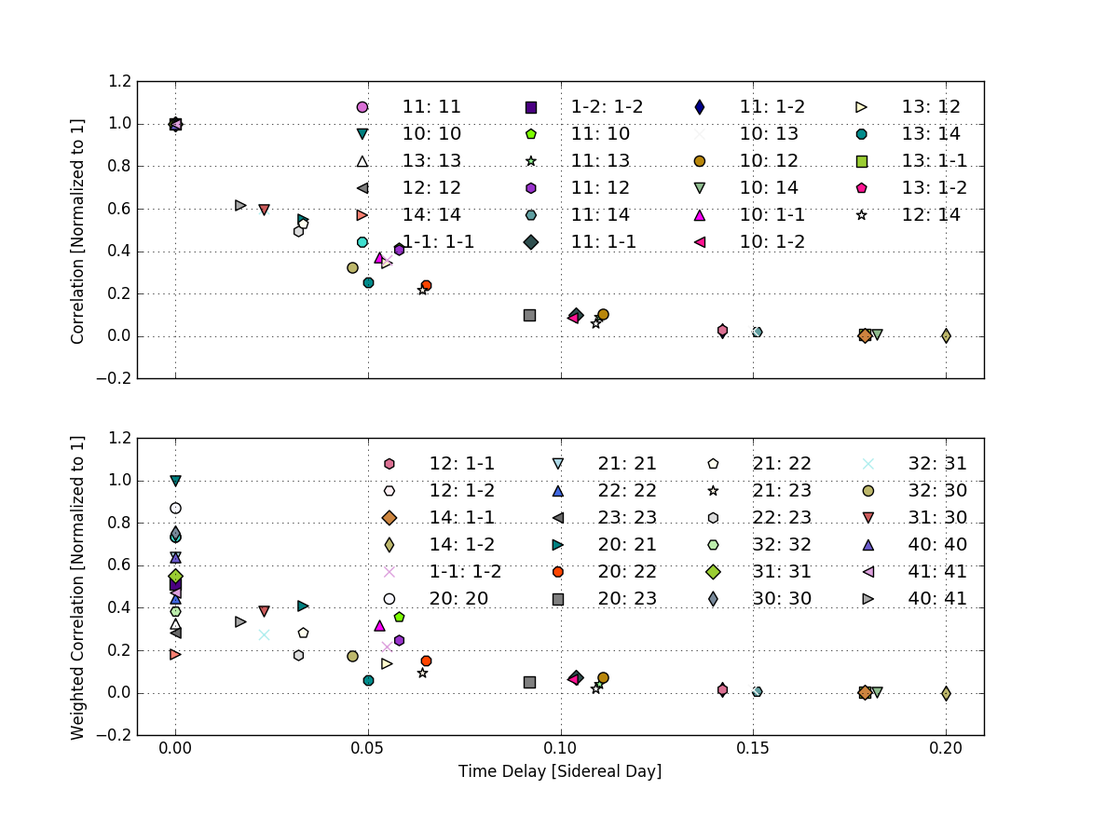
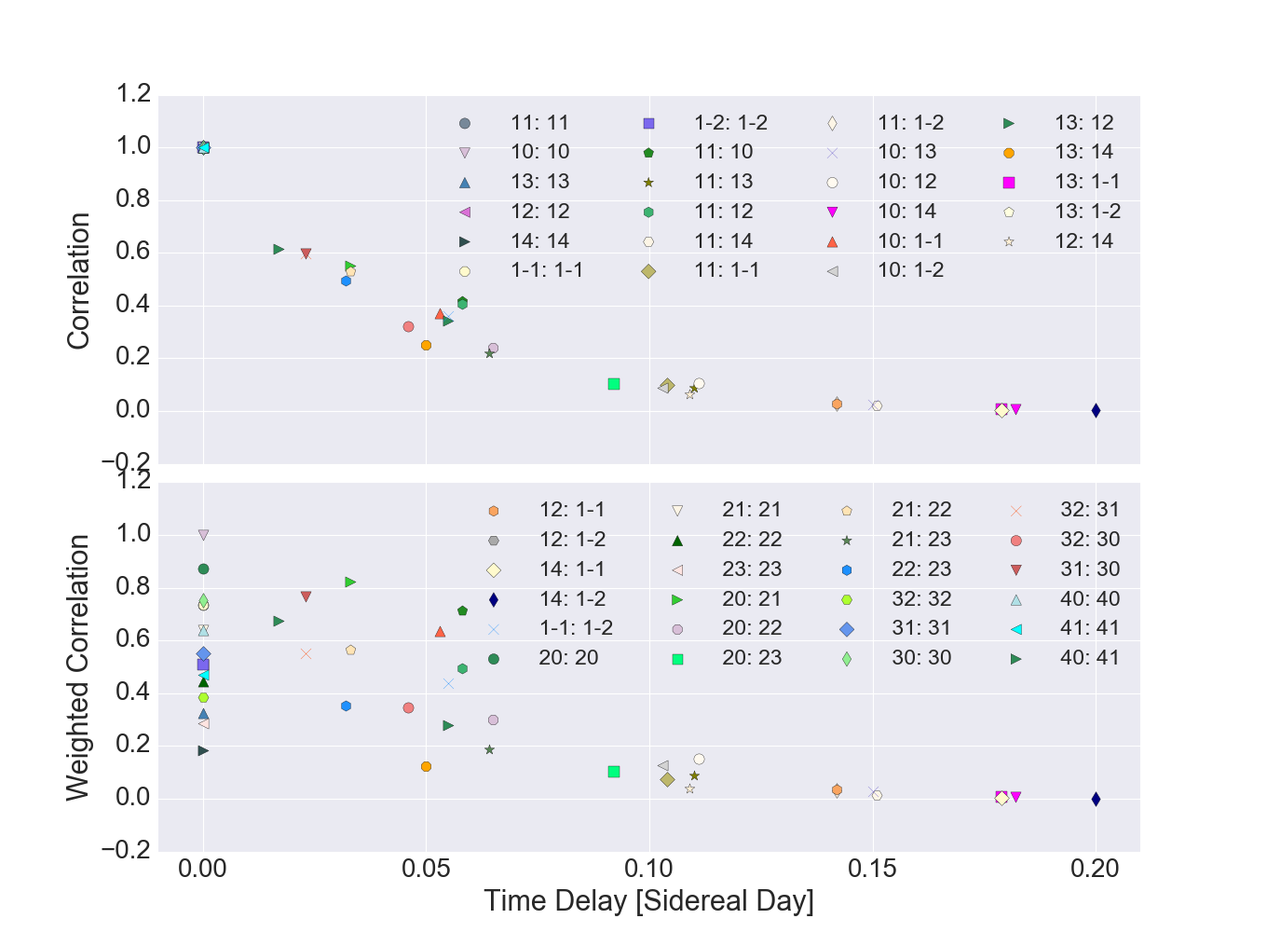
save

diff --git a/Rotation paper/draft_working.tex b/Rotation paper/draft_working.tex
@@ -32,7 +32,7 @@ Aaron R. Parsons\altaffilmark{1}\altaffilmark{2}
 \begin{abstract}
 We introduce an accurate method to extract additional sensitivity from data of redundant radio arrays. Our method efficiently finds optimal baselines to cross correlate, including baselines that are slightly different in length and orientation. 
 Using the latest and final 128-element version of Precision Array for Probing the Epoch of Reionization (PAPER-128), as well as the planned 37, 128, 240 and 350 element versions of the Hydrogen Epoch of Reionization Array (HERA) now under development, we illustrate how our method applies to different array configurations and predict the sensitivity improvements of including each baseline pairs. The extremely natural and simple implementation of this method
-would increase the sensitivity of PAPER-128 by up to [~50] percent, and increase the out-rigger imaging sensitivity of HERA-350 by a factor of 2. 
+would increase the sensitivity of PAPER-128 by about to $10\%$, and increase the out-rigger imaging sensitivity of HERA-350 by a factor of 2. 
 \end{abstract}
 
 \section{Introduction}
@@ -42,28 +42,26 @@ stage of the universe's early evolution. Study of this event stands at
 the intersection of cosmology and astrophysics. Understanding this
 event is important not only because it is a scientific goal
 of its own, but also because it can provide crucial information
-to fundamental nature of inflation, neutrino mass and phenomenology
+to fundamental physics of inflation, neutrino mass and phenomenology
 of the first stars and galaxies (e.g. \cite{LiuOpticalDepth}). 
 
 Arguably the most promising observational probe of the epoch of reionization
 comes from measurement of the ``spin-flip'' transition of neutral
 hydrogen of characteristic wavelength 21cm \cite{Furlanetto2006181,PritchardLoeb}.
 While probes such as quasar spectra rely on emission and scattering
-of free electrons, and are thus limited to the lower redshifts after
-the completion of reionization, the 21cm line directly probes the
+of free electrons, and are thus limited to the lower redshifts towards the end of reionization, the 21cm line directly probes the
 abundance and distribution of neutral hydrogen, and thus would potentially
 shed light on all stages of reionization. Radio interferometry efforts
 to measure the 21cm power spectrum has been a top priority in recent years of astronomy.
 Current generation instruments include the Precision Array for Probing
 the Epoch of Reionization (PAPER) \cite{Ali2015,paper32}, Murchison
-Widefield Array (MWA) \cite{MWA}, Low Frequency Array (LOFAR) \cite{LOFAR},
-and next generation instruments such as the Hydrogen Epoch of Reionization
+Widefield Array (MWA) \cite{MWA}, Low Frequency Array (LOFAR) \cite{LOFAR}. Next generation instruments such as the Hydrogen Epoch of Reionization
 Array (HERA) (e.g. \cite{HERA,HERAconfiguration,HERABEAM1,HERADISH2})
 and the Square Kilometer Array Low (SKA low) (e.g. \cite{SKA1}) are
-under construction. 
+in planning and construction. 
 
 One of the main challenges of interferometric observations of cosmic
-21cm line is the foreground contamination. Both sources within our
+21cm line is foreground contamination. Both sources within our
 galaxy, and to a lesser distant sources outside of our galaxy emit
 radio contaminations (via for example synchrotron processes) up to five orders of magnitude stronger than the
 reionization signal. There are two common methods to deal with the
@@ -76,15 +74,15 @@ wedge'' \cite{wedge1,wedge2}. Thus contamination can be avoided
 by restricting our observation to ``outside the wedge'', where the data is currently noise dominated. The main
 challenge of using the avoidance technique is thus the sensitivity, or
 the signal to noise ratio. This is the motivation for the design of
-the maximum redundancy arrays such as PAPER and HERA. While traditional
-imaging arrays focus on Fourier mode uv coverage, the redundant arrays
-focus on redundant measurements of the same Fourier mode
+the maximum redundancy arrays such as PAPER and HERA. Traditional
+imaging arrays are designed to image localized bright sources and thus favor non-redundant patterns for uv coverage. The redundant arrays on the other hand
+focus on high-sensitivity measurements of the same Fourier mode
 with many tightly packed antennas at equal spacing. Since baselines
 of the same length and orientation measure the same Fourier modes
 on the sky, a maximum redundancy array is able to increase the
 signal to noise ratio by averaging over measurements of the same baseline.
 \cite{Ali2015} provides the newest upper limit to the power spectrum
-measurements with the PAPER-64 data. From some models we roughly expect
+measurements with the 64-element version of PAPER(henceforth referred to as PAPER-64). From some models we roughly expect
 that the sensitivity required for detection is a factor of 10 away.
 This paper explores a new technique to add sensitivity to the analysis
 of redundant arrays, by making use of the earth's rotation. This technique
@@ -96,7 +94,7 @@ This effect is used extensively to improve uv coverage in imaging with minimum r
 a maximally redundant array, baselines that are slightly different
 rotate into each other at a time delay. Here we present a method to
 improve the sensitivity of the maximum redundancy arrays by including
-the uv redundancy of different baselines at a time lag. Recently the authors of \cite{wterm} proposed an algorithmic search approach to extract information from all near-equivalent baselines. We here propose a simple and elegant theoretical formalism that in addition allows us to identify good baselines to cross-correlate and predict the weight of sensitivity with speed and accuracy. 
+the uv redundancy of different baselines at a time lag. Recently the authors of \cite{wterm} proposed an algorithmic search approach to extract information from all near-equivalent baselines. We here present a simple and elegant theoretical formalism that in addition allows us to identify good baselines to cross-correlate and predict the weight of sensitivity with speed and accuracy. 
 
 Baselines of the same length and orientation are traditionally called
 ``redundant baselines'', because they measure the same Fourier mode
@@ -114,9 +112,9 @@ redundancy, b) to find the optimal time offset for a given pair of baselines, an
 c) to quantify the sensitivity improvement associated with cross multiplying
 such a pair of near-equivalent baselines. In section
 2 we explain the theoretical basis for this cross multiplication.
-In section 3 we present details of the numerical implementation of
-this technique. In section 4 we discuss the expected sensitivity improvement
-with this method for HERA and PAPER-128 and with section 5 we conclude. 
+In section 3 we present numerical tests of
+this technique as well as the expected sensitivity improvement
+with this method for HERA and PAPER-128 and with section 4 we conclude. 
 
 
 \section{Method}
@@ -155,7 +153,7 @@ the yellow and green arrows are examples of sep1,1 and sep-1,1, respectively.
 Note sep1,0 and sep-1,0 for example are the same baselines and should
 not be counted twice. Antennas in purely north-south baselines
 are close enough to induce cross talks, and hence are not suitable
-for use. The original PAPER-64 analysis used three classes of baselines, here
+for use. The original PAPER-64 analysis (\cite{Ali2015}) used three classes of baselines, here
 equivalent to 
 sep2,0, sep2,1 and sep-2,1 \cite{Ali2015} of PAPER-128. There each of these classes
 of baselines are cross multiplied to itself. We shall see that in addition these
@@ -165,7 +163,7 @@ baseline classes can be cross multiplied with a time offset.
 Given a point source on the sky, each baseline maps the
 source to a point in uv plane. As the earth rotates with respect to
 the source, the point traces out tracks in the uv-plane. 
-The uv tracks of PAPER-128 over 4.8 hours, at 0.15GHz, for a source that passes through zenith, are shown in Fig. \ref{fig:Tracks}. 
+We show in Fig. \ref{fig:Tracks} uv tracks of PAPER-128 over 4.8 hours, at 0.15GHz, for a source that passes through zenith. 
 
 
 \begin{figure}[H]
@@ -179,10 +177,9 @@ As the earth rotates, tracks are traced out counterclockwise. \label{fig:Tracks}
 Roughly speaking, we can identify
 redundancy of near-equivalent baselines as crossings
 of the uv tracks. Although this is a valid quick method to identify some baselines to cross-multiply, we find
-that it is not accurate enough for time offset determination. The reason is, for wide beam antennas such as PAPER, the sources are not point-like. 
-In other words, when tracks of
-one point of the sky are crossing in uv-plane, those corresponding to another is not. To accurately
-constrain redundancy we must take into account of finite beam width. A more rigorous treatment is thus required. 
+that it is not accurate enough for time offset determination. The reason is that UV tracks are traces of a point source, which though adequate for traditional narrow beam imaging, are not applicable for wide-beam receivers like that of PAPER.
+Here the uv-imprint of the sky for a given baseline and frequency is really a cloud that's the track convolved with the appropriate point-spread function. To accurately
+constrain redundancy, a more rigorous treatment is thus required. 
 We show sample beams of HERA and PAPER antennas in Fig.\ref{fig:Beam} for reference. 
 
 \begin{figure}[H]
@@ -204,8 +201,8 @@ the product of visibilities of two different baselines to the power spectrum.
 We take the visibility as commonly defined in the literature (e.g.
 \cite{first-paper}): 
 \begin{equation}
-\begin{aligned}V_{\nu}(b) & =\int d\Omega A_{\nu}(\hat{s})\phi(\nu)I_{\nu}(\hat{s})\exp\left[-2\pi i\frac{\nu}{c}b\cdot\hat{s}\right],\\
- & \approx\frac{2k_{B}}{\lambda^{2}}\int d\Omega A_{\nu}(\hat{s})\phi(\nu)T(\hat{s})\exp\left[-2\pi i\frac{\nu}{c}b\cdot\hat{s}\right],
+\begin{aligned}V_{\nu}(\boldsymbol{b}) & =\int d\Omega A_{\nu}(\hat{\boldsymbol{s}})\phi(\nu)I_{\nu}(\hat{\boldsymbol{s}})\exp\left[-2\pi i\frac{\nu}{c}\boldsymbol{b}\cdot\hat{\boldsymbol{s}}\right],\\
+ & \approx\frac{2k_{B}}{\lambda^{2}}\int d\Omega A_{\nu}(\hat{\boldsymbol{s}})\phi(\nu)T(\hat{\boldsymbol{s}})\exp\left[-2\pi i\frac{\nu}{c}\boldsymbol{b}\cdot\hat{\boldsymbol{s}}\right],
 \end{aligned}
 \label{eq:Vis1}
 \end{equation}
@@ -214,14 +211,14 @@ length, $\hat{\boldsymbol{s}}$ and $\Omega$ are a direction in the
 sky and its corresponding solid angle. $A_{\nu}$ is the (frequency
 dependent) beam, and $I$ is the specific intensity, which has been
 related to $T$, the brightness temperature in the Rayleigh-Jeans
-limit. Note that $A$ here is the baseline beam, i.e. product of two antenna beams, examples of which are shown in Fig.\ref{fig:Beam}. $\phi(\nu)$ is the frequency band profile. For PAPER, for example,
-the bands studied are roughly a top-hat from 144MHz to 154 MHz. 
+limit. Note that $A$ here is the baseline beam, i.e. product of two antenna beams, examples of which are shown in Fig.\ref{fig:Beam}. $\phi(\nu)$ is the frequency bandpass profile. In practice,
+power spectrum measurements are typically taken from a few ten MHz centered around the corresponding redshift of interest (e.g. 150 MHz for z=9.5). 
 
 We define the delay transformed visibility \cite{delay-transform}:
 \small
 \begin{equation}
-\begin{aligned}V(b,\tau) & =\int d\nu V_{\nu}(b)\phi(\nu)\exp\left[-2\pi i\nu\tau\right],\\
- & =\frac{2k_{B}}{\lambda^{2}}\int d\Omega d\nu A(\hat{s},\nu)\phi(\nu)T(\hat{s},\nu)\exp\left[-2\pi i\nu\left(\frac{b\cdot\hat{s}}{c}+\tau\right)\right]
+\begin{aligned}V(\boldsymbol{b},\tau) & =\int d\nu V_{\nu}(\boldsymbol{b})\phi(\nu)\exp\left[-2\pi i\nu\tau\right],\\
+ & =\frac{2k_{B}}{\lambda^{2}}\int d\Omega d\nu A(\hat{\boldsymbol{s}},\nu)\phi(\nu)T(\hat{\boldsymbol{s}},\nu)\exp\left[-2\pi i\nu\left(\frac{\boldsymbol{b}\cdot\hat{\boldsymbol{s}}}{c}+\tau\right)\right]
 \end{aligned}
 .\label{eq:Vb1}
 \end{equation}
@@ -229,8 +226,8 @@ We define the delay transformed visibility \cite{delay-transform}:
 
 
 Eq. \eqref{eq:Vb1} expresses the delay-transformed visibility as
-an integral over observation coordinates $\hat{s}$ and $\nu$. Ultimately,
-we would like to relate the data, collected with coordinates $\hat{s}$
+an integral over observation coordinates $\hat{\boldsymbol{s}}$ and $\nu$. Ultimately,
+we would like to relate the data, collected with coordinates $\hat{\boldsymbol{s}}$
 and $\nu$, to the power spectrum, written with cosmological coordinates
 $\boldsymbol{r}$ and $\boldsymbol{k}$. We start by noticing that
 {[}Gerry: change all r and k into bold{]} 
@@ -255,11 +252,11 @@ Thus $d\nu=-dr/Y$ and $d^{3}r=-X^{2}Yd\Omega d\nu$.
 We can thus rewrite the delayed transformed visibility as 
 \small
 \[
-\begin{aligned}V(b,\tau) & =\frac{1}{X^{2}Y}\int_{H}d^{3}rA(\vec{r})\phi(r)I(\vec{r})\exp\left[-2\pi i\left(\frac{b}{c}\cdot\hat{r}+\tau\right)\nu_{r}\right]\end{aligned}.
+\begin{aligned}V(\boldsymbol{b},\tau) & =\frac{1}{X^{2}Y}\int_{H}d^{3}rA(\boldsymbol{r})\phi(r)I(\boldsymbol{r})\exp\left[-2\pi i\left(\frac{\boldsymbol{b}}{c}\cdot\hat{\boldsymbol{r}}+\tau\right)\nu_{r}\right]\end{aligned}.
 \]
 \normalsize
-Here $(r_{x},r_{y},r_{z})=(X\hat{s}_{x},X\hat{s}_{y},Y\nu)$, and
-$(Xk_{x},Xk_{y},Yk_{z})=\frac{2\pi}{c}(b_{x},b_{y},\eta)$ relate
+Here $(r_{x},r_{y},r_{z})=(X\hat{\boldsymbol{s}}_{x},X\hat{\boldsymbol{s}}_{y},Y\nu)$, and
+$(Xk_{x},Xk_{y},Yk_{z})=\frac{2\pi}{c}(b_{x},b_{y},\tau)$ relate
 the cosmological coordinates $r$ and $k$ to the measured coordinates.
 We have written $\nu_{r}$ to remind us that $\nu$ and $r$ are related
 by Eq. \eqref{eq:nur}. The beam reception pattern $A$ is dimensionless,
@@ -272,21 +269,21 @@ of the beam pattern with the operator $\Gamma$. With implicit bounds
 of integrals from $-\infty$ to $\infty$, we have:
 \begin{widetext}
 \begin{equation}
-\begin{aligned} & \langle V^{*}(b,\tau)V(b',\tau')\rangle\\
- & =\left(\frac{2k_{B}}{X^{2}Y\lambda^{2}}\right)^{2}\int d^{3}rd^{3}r'\left(\langle T^{*}(r)T(r')\rangle\right)A^{*}(r)A(\Gamma r')\Phi_{b,\tau}(r,\Gamma r'),\\
- & =\left(\frac{2k_{B}}{X^{2}Y\lambda^{2}}\right)^{2}\int d^{3}rd^{3}r'\left(\int\frac{d^{3}\kappa}{(2\pi)^{3}}\frac{d^{3}\kappa'}{(2\pi)^{3}}\langle T^{*}(\kappa)T(\kappa')\rangle e^{-i(\kappa r-\kappa'r')}\right)A^{*}(r)A(\Gamma r')\Phi_{b,\tau}(r,\Gamma r'),\\
- & =\left(\frac{2k_{B}}{X^{2}Y\lambda^{2}}\right)^{2}\int d^{3}rd^{3}r'\left(\int\frac{d^{3}\kappa}{(2\pi)^{3}}P(\kappa)e^{-i\kappa(r-r')}\right)A^{*}(r)A(\Gamma r')\Phi_{b,\tau}(r,\Gamma r'),\\
- & =\left(\frac{2k_{B}}{X^{2}Y\lambda^{2}}\right)^{2}\int d^{3}rd^{3}r'\xi(r-r')A^{*}(r)A(\Gamma r')\Phi_{b,\tau}(r,\Gamma r'),\\
- & \approx\left(\frac{2k_{B}}{X^{2}Y\lambda^{2}}\right)^{2}P(k_{b,\tau})\int d^{3}rd^{3}r'\delta_{D}^{(3)}(r-r')A^{*}(r)A(\Gamma r')\Phi_{b,\tau}(r,\Gamma r'),\\
- & =\left(\frac{2k_{B}}{X^{2}Y\lambda^{2}}\right)^{2}P(k_{b,\tau})\int d^{3}r|A^{*}(r)A(\Gamma r)||\phi(\nu_{r})|^{2}\exp\left[-i2\pi\nu_{r}\left(\hat{r}\cdot\frac{b}{c}-\hat{\Gamma r}\cdot\frac{b'}{c}\right)\right],\\
- & =\left(\frac{2k_{B}}{\lambda^{2}}\right)^{2}P(k_{b,\tau})\int\frac{d\Omega d\nu}{X^{2}Y}|A^{*}(\hat{s},\nu)A(\hat{\Gamma s},\nu)||\phi(\nu)|^{2}\exp\left[-i2\pi\nu\left(\hat{s}\cdot\frac{b}{c}-\hat{\Gamma s}\cdot\frac{b'}{c}\right)\right],
+\begin{aligned} & \langle V^{*}(\boldsymbol{b},\tau)V(\boldsymbol{b'},\tau')\rangle\\
+ & =\left(\frac{2k_{B}}{X^{2}Y\lambda^{2}}\right)^{2}\int d^{3}rd^{3}r'\left(\langle T^{*}(\boldsymbol{r})T(\boldsymbol{r'})\rangle\right)A^{*}(\boldsymbol{r})A(\Gamma r')\Phi_{b,\tau}(\boldsymbol{r},\Gamma r'),\\
+ & =\left(\frac{2k_{B}}{X^{2}Y\lambda^{2}}\right)^{2}\int d^{3}rd^{3}r'\left(\int\frac{d^{3}\kappa}{(2\pi)^{3}}\frac{d^{3}\kappa'}{(2\pi)^{3}}\langle T^{*}(\boldsymbol{\kappa})T(\boldsymbol{\kappa'})\rangle e^{-i(\boldsymbol{\kappa}\cdot \boldsymbol{r}-\boldsymbol{\kappa'}\cdot\boldsymbol{r'})}\right)A^{*}(\boldsymbol{r})A(\Gamma r')\Phi_{b,\tau}(\boldsymbol{r},\Gamma r'),\\
+ & =\left(\frac{2k_{B}}{X^{2}Y\lambda^{2}}\right)^{2}\int d^{3}rd^{3}r'\left(\int\frac{d^{3}\kappa}{(2\pi)^{3}}P(\kappa)e^{-i\boldsymbol{\kappa}\cdot(\boldsymbol{r}-\boldsymbol{r'})}\right)A^{*}(\boldsymbol{r})A(\Gamma r')\Phi_{b,\tau}(\boldsymbol{r},\Gamma r'),\\
+ & =\left(\frac{2k_{B}}{X^{2}Y\lambda^{2}}\right)^{2}\int d^{3}rd^{3}r'\xi(\boldsymbol{r}-\boldsymbol{r'})A^{*}(\boldsymbol{r})A(\Gamma r')\Phi_{b,\tau}(\boldsymbol{r},\Gamma r'),\\
+ & \approx\left(\frac{2k_{B}}{X^{2}Y\lambda^{2}}\right)^{2}P(k_{b,\tau})\int d^{3}rd^{3}r'\delta_{D}^{(3)}(\boldsymbol{r}-\boldsymbol{r'})A^{*}(\boldsymbol{r})A(\Gamma r')\Phi_{b,\tau}(\boldsymbol{r},\Gamma r'),\\
+ & =\left(\frac{2k_{B}}{X^{2}Y\lambda^{2}}\right)^{2}P(k_{b,\tau})\int d^{3}r|A^{*}(\boldsymbol{r})A(\Gamma r)||\phi(\nu_{r})|^{2}\exp\left[-i2\pi\nu_{r}\left(\hat{\boldsymbol{r}}\cdot\frac{\boldsymbol{b}}{c}-\hat{\Gamma r}\cdot\frac{\boldsymbol{b'}}{c}\right)\right],\\
+ & =\left(\frac{2k_{B}}{\lambda^{2}}\right)^{2}P(k_{b,\tau})\int\frac{d\Omega d\nu}{X^{2}Y}|A^{*}(\hat{\boldsymbol{s}},\nu)A(\hat{\Gamma s},\nu)||\phi(\nu)|^{2}\exp\left[-i2\pi\nu\left(\hat{\boldsymbol{s}}\cdot\frac{\boldsymbol{b}}{c}-\hat{\Gamma s}\cdot\frac{\boldsymbol{b'}}{c}\right)\right],
 \end{aligned}
 \label{eq:main}
 \end{equation}
 
-where in transition from cosmological coordinates back to observing coordinates we have written $\hat{r}\equiv\hat{s}$, and 
+where in transition from cosmological coordinates back to observing coordinates we have written $\hat{\boldsymbol{r}}\equiv\hat{\boldsymbol{s}}$, and 
 \begin{equation}
-\Phi_{b,\tau}(r,\Gamma r')=|{\phi^{*}}(\ensuremath{\nu_{r}})\phi(\nu_{r'})|\exp\left[-i\frac{2\pi}{c}\left(b\cdot\nu_{r}\hat{r}-b'\cdot\nu_{r'}\Gamma\hat{r'}\right)\right]\exp\left[-i2\pi\tau\left(\nu_{r}-\nu_{r'}\right)\right].
+\Phi_{b,\tau}(\boldsymbol{r},\Gamma r')=|{\phi^{*}}(\ensuremath{\nu_{r}})\phi(\nu_{r'})|\exp\left[-i\frac{2\pi}{c}\left(\boldsymbol{b}\cdot\nu_{r}\hat{\boldsymbol{r}}-\boldsymbol{b'}\cdot\nu_{r'}\Gamma\hat{r'}\right)\right]\exp\left[-i2\pi\tau\left(\nu_{r}-\nu_{r'}\right)\right].
 \end{equation}
 \end{widetext}
 The second to third line of Eq.(\ref{eq:main}) follows from assumption of Gaussian random
@@ -295,37 +292,50 @@ the 3D power spectrum varies negligibly over the region of interest
 so that $\hat{P_{21}}(k+k_{2})\approx\hat{P_{21}}(k)$. Since $\Gamma$
 is a sky rotation, it doesn't affect $\nu$, hence we have taken $\nu_{r}$
 outside the parenthesis. Notice that the phase factor $\exp\left[-i2\pi\tau\left(\nu-\nu'\right)\right]$
-drops out in the end. This is significant because this means that correlation is peaked at the same time-offset for all delay channels. 
+drops out in the end. This means that correlation is peaked at the same time-offset for all delay channels. 
 
-Finally, since the beam pattern and bandwidth are given in $\hat{s}$
+Finally, since the beam pattern and bandwidth are given in $\hat{\boldsymbol{s}}$
 and $\nu$, we convert the integral back to these coordinates to get
 the general relation between the delay-transformed visibilities and
 the power spectrum:
 
 \begin{equation}
-\begin{aligned} & \langle V^{*}(b,\tau)V(b',\tau')\rangle\\
- & =\left(\frac{2k_{B}}{\lambda^{2}}\right)^{2}P(k_{b,\tau})\int\frac{d\Omega d\nu}{X^{2}Y}|A^{*}(\hat{s},\nu)A(\hat{\Gamma s},\nu)||\phi(\nu)|^{2}\\
- & \qquad \qquad \qquad \qquad \exp\left[-i2\pi\nu\left(\hat{s}\cdot\frac{b}{c}-\hat{\Gamma s}\cdot\frac{b'}{c}\right)\right].\end{aligned}
+\begin{aligned} & \langle V^{*}(\boldsymbol{b},\tau)V(\boldsymbol{b'},\tau')\rangle\\
+ & =\left(\frac{2k_{B}}{\lambda^{2}}\right)^{2}P(k_{b,\tau})\int\frac{d\Omega d\nu}{X^{2}Y}|A^{*}(\hat{\boldsymbol{s}},\nu)A(\hat{\Gamma s},\nu)||\phi(\nu)|^{2}\\
+ & \qquad \qquad \qquad \qquad \exp\left[-i2\pi\nu\left(\hat{\boldsymbol{s}}\cdot\frac{\boldsymbol{b}}{c}-\hat{\Gamma s}\cdot\frac{\boldsymbol{b'}}{c}\right)\right].\end{aligned}
 \label{eq:final}
 \end{equation}
+
+In other words the power spectrum estimate from visibilities of a baseline pair is given by 
+\begin{equation}
+ P(k_{b,\tau}) = \left(\frac{\lambda^{2}}{2k_{B}}\right)^{2} \frac{\langle V^{*}(\boldsymbol{b},\tau)V(\boldsymbol{b'},\tau')\rangle}{\Theta}, 
+\end{equation}
+where the weight
+\begin{equation}
+\Theta =\int\frac{d\Omega d\nu}{X^{2}Y}|A^{*}(\hat{\boldsymbol{s}},\nu)A(\hat{\Gamma s},\nu)||\phi(\nu)|^{2} e^{-2\pi i\nu\left(\hat{\boldsymbol{s}}\cdot\frac{\boldsymbol{b}}{c}-\hat{\Gamma s}\cdot\frac{\boldsymbol{b'}}{c}\right)}. 
+\label{eq:opp}
+\end{equation}
+
+
+
 So roughly speaking the cross multiplications of visibilities at a time delay
 in uv-space is proportional to the power spectrum times the Fourier
 transform of the cross multiplied beam pattern. We can then in principle
 combine information from different baseline pairs if we correct for
 the phase and normalization. As a check, when applied to equivalent baselines,
-$b=b'$, $\hat{s}=\hat{\Gamma s}$, and Eq.(\ref{eq:final}) reduces to Eq.(B9) of \cite{paper32}. 
+$\boldsymbol{b}=\boldsymbol{b'}$, $\hat{\boldsymbol{s}}=\hat{\Gamma s}$, and Eq.(\ref{eq:final}) reduces to Eq.(B9) of \cite{paper32}. 
 
 If this result is robust, then we can achieve all our goals stated in the introduction, i.e. to identify 
-candidate baseline pairs, to find the optimal time offset, and to quantify the sensibility, by computing the integral
-in Eq.(\ref{eq:final}) for various time offsets. Thus we shall first test its robustness numerically.
+candidate baseline pairs, to find the optimal time offset, and to quantify the sensibility, by computing the weight $\Theta$ from
+Eq.(\ref{eq:opp}) for various time offsets. Thus we shall first test its robustness numerically.
 
 \subsection{Rephasing \label{sec:rephs}}
-Before we discuss tests, there is one subtlety when applying Eq. \ref{eq:final}. The optimal time offset is given by the $\Gamma$ that maximizes the integral. However, first integrating over the spatial dimension $\Omega$, we see the phase term at peak time-offset is inevitably frequency dependent. This frequency dependence of the phase would lead to destructive interference when we integrate over frequency.
+Before we discuss tests, there is one subtlety when applying Eq. \ref{eq:final}. The optimal time offset is given by the $\Gamma$ that maximizes the absolute value of the weight $\Theta$. However, $\Theta$ is in general complex. First integrating over the spatial dimension $\Omega$, we see the phase term at peak time-offset is inevitably frequency dependent. This frequency dependence of the phase would lead to destructive interference when we integrate over frequency.
 
-The physical origin of this frequency dependent phase is due to the two visibilities having different phase centers. By default the two visibilities are both phased to zenith at the same time. When they are cross-correlated, they must be rephased to the account for the movement of the zenith. Thus in practice we must rephase the visibilities before delay transform. 
+The physical origin of this frequency dependent phase lies the two visibilities having different phase centers. By default the two visibilities are both phased to zenith at the same time. When they are cross-correlated, they must be rephased to the account for the movement of the zenith. Thus in practice we must rephase the visibilities before delay transform. 
 
 
-In Fig.\ref{fig:freqdiff} we compare two channels 0.16 GHz and 0.17 GHz.  Top panels show the equivalent baseline pairs sep1,0 against itself, and bottom panels show sep1,0 against sep1,1. The left two panels have zero rephasing, and the right two are rephased to a time offset of 0.055 sidereal days, the optimal time offset for the given baseline pair. We see that in bottom left panel, although the magnitude, drawn by the wide curves match up, the phases do not. This means the wider the frequency profile, the more destructive the interference, and lower the sensitivity contribution. In the rephased case, the phases of the near-equivalent case match up. We should use the correponding rephasing for each baseline pair maximum sensitivity. 
+In Fig.\ref{fig:freqdiff} we compare two channels 0.16 GHz and 0.17 GHz.  Top panels show the equivalent baseline pairs sep1,0 against itself, and bottom panels show sep1,0 against sep1,1. The left two panels have zero rephasing, and the right two are rephased to a time offset of 0.055 sidereal days, the optimal time offset for the given baseline pair. We see that in bottom left panel, although the magnitude, drawn by the wide curves match up for the two frequencies, the phases do not. This means the wider the frequency profile, the more destructive the interference, and lower the sensitivity contribution. In the rephased case, the phases of the near-equivalent case match up and can be added without compromising sensitivity. We should thus rephase the data separately for each set of baseline pairs. 
 
 \begin{figure}[H]
 \includegraphics[width=1.1\linewidth]{rephs}
@@ -337,7 +347,7 @@ In Fig.\ref{fig:freqdiff} we compare two channels 0.16 GHz and 0.17 GHz.  Top pa
 \section{Analysis}
 \subsection{Numerical Test \label{sec:Techniquet}}
 
-To test the robustness of Eq.(\ref{eq:final}), we need to compare the amplitude and phase of the integral
+To test the robustness of Eq.(\ref{eq:final}), we need to compare the amplitude and phase of the integral weight $\Theta$ 
 for a pair of baselines with products of simulated visibilities of those baselines. For computational simplicity, we shall use a single frequency channel of $150$MHz for the comparison. We may use this simplification without compromising generality because Eq. (\ref{eq:final}) is valid for a range of frequency channels if an only if it's valid for each single channels, provided that different channels are combined with rephasing as desscribed in Sec. \ref{sec:rephs}. 
 
 For the simulation, we take N random realizations of the sky
@@ -360,12 +370,9 @@ A numerical estimate of the error of the peak height with $N=1$ is
 $\lesssim20\%$, and thus with $N=2500,$ we achieve an error of peak
 height $<0.5\%$. 
 
-To test our understanding of the time-offset, and to verify our derivation
-in Eq. \eqref{eq:main}, we must compare the simulated visibility cross multiplication with the integral in
-Eq. \eqref{eq:main}, for a pair of near-equivalent baselines. 
-This comparison is show in Fig. \ref{fig:numerics}. 
+The comparison is show in Fig. \ref{fig:numerics}. 
 Since the sensitivity contribution is inferred from height of the peak of the cross-multiplied visibilities as a function of time. 
-We first compare the simulation to the integral for a pair of equivalent baselines, then normalize the peaks 
+We first compare the simulation to the analytical weight $\Theta$ for a pair of equivalent baselines, then normalize the peaks 
 of the near-equivalent baselines to that of the equivalent ones. 
 In Fig. \ref{fig:numerics}  we show on the top comparison of
 the convolution of an equivalent baseline of PAPER-128, normalized to 1 at the
@@ -376,9 +383,9 @@ i.e. the two plots have thus the same scale on the vertical axis.
 The height of the plot thus quantifies the added sensitivity. We see at a peak of around 0.055 sidereal days, or 1.32 hours, the two baselines are maximally redundant. 
 
 \begin{figure}[H]
-\includegraphics[width=\linewidth]{redun_agree}
+\includegraphics[width=\linewidth]{corr}
 \label{fig:numerics}
-\caption{Numerical comparisons of the visibility correlation peaks to the $\Omega$ factor in Eq.(\ref{eq:final}). We generated 24000 instances of Gaussian random sky on healpix maps, computed visibilities and cross correlated them to find the correlation.  We see that the theory and simulation line up in both amplitude and phase. }
+\caption{Numerical comparisons of the visibility correlation peaks to the $\Omega$ factor in Eq.(\ref{eq:final}). We generated 2400 instances of Gaussian random sky on healpix maps, computed visibilities and cross correlated them to find the correlation.  Top panel shows the equivalent baseline pairs sep1,0 against itselt, bottom show set1,0:1:1.  Evaluations of weight $\Theta$ are shown with solid curves, and the visibility correlations of simulated random sky is given with dashed lines. In both cases blue denotes real part, green the imaginary part, and red the magnitude. We see that in both cases the theory and simulation line up in both amplitude and phase.}
 \end{figure}
 
 
@@ -391,20 +398,20 @@ patterns for baselines sep2,0 and sep2,1, delayed by 0.0325 sidereal days,
 and the right panel shows their cross product. The fringe pattern
 indeed cancels out as we expect. 
 
-\begin{widetext}
+%\begin{widetext}
 \begin{figure}[H]
-\includegraphics[scale=0.5]{fringe_res}
-
+%\includegraphics[scale=0.5]{fringe_res}
+\includegraphics[width=\linewidth]{fringe_res}
 \caption{Beam fringe pattern of sep2,0(left), sep2,1 at a time delay (middle),
 and their conjugate product. Frequency of $\nu=0.15\text{GHz}$ is
 chosen and only the real components are shown. \label{fig:Beam-fringe-pattern}}
 \end{figure}
-\end{widetext}
+%\end{widetext}
 
 
 \subsection{Expected Sensitivity Contributions}
 
-Having verified Eq. \eqref{eq:main}, we can thus predict the sensitivity contributions of a
+Having verified Eq. \eqref{eq:final}, we can thus predict the sensitivity contributions of a
 particular baseline pair simply by computing the integral.
 Intuitively we expect the sensitivity to depend on both the uv coverage of the baseline and the patch of sky inside the beam. A larger beam like PAPER-beam would tolerate larger time-offsets because more sky area can coincide in the two beams. To keep the flow of the discussion, we shall focus on results of PAPER-128, and present the results for HERA in the Appendix. 
 Having computed all of the baseline pairs, we find that baseline pairs that are mirror images of each other 
@@ -421,13 +428,13 @@ that are closer to zero time lag are higher. This is expected since
 a) the longer the time delay, the more the antennas have moved with respect
 to the sky and hence the less overlaps in patch of sky surveyed, b) smaller optimal
 time-offset corresponds to smaller differences in orientation, and hence in length of
-baselines in PAPER-64. 
+baselines in PAPER. 
 
 \begin{figure}[H]
 \includegraphics[width=\linewidth]{sensitivity}
 \label{fig:sensplot}
-\caption{Relative sensitivity contributions of selected baseline combinations in PAPER-64. In the legend m,n:p,q denotes cross
-multiplying PAPER-64 baselines of east-west, north-south separations (m,n) and (p,q) respectively. The top
+\caption{Relative sensitivity contributions of selected baseline combinations in PAPER-128. In the legend m,n:p,q denotes cross
+multiplying PAPER-128 baselines of east-west, north-south separations (m,n) and (p,q) respectively. The top
 panel shows the peak height (degree of correlation) of each baseline
 combination, while the bottom panel multiplies the heights by the
 corresponding multiplicities as in Eq. \eqref{eq:sensul}, and in some cases an extra factor of 2 (explained in text). 
@@ -484,6 +491,16 @@ or in other words are mirror images of each other, by summing over them to get a
 instead of plotting 1,1:1,1 and 1,-1:1,-1 separately, we plot 1,1:1,1 with twice the multiplicity. Similarly, baseline pairs such as 
 1,0:1,1 also get the factor of 2 because they are identical to 1,0:1,-1. Baseline pairs such as 1,0:1,0, or 1,1:1,-1 do not get
 the factor of 2 because their mirror images are themselves. 
+
+Finally we combine the different power spectrum measurements by inverse covariance weighting:
+\begin{equation}
+ P(k_{\tau}) = \frac{\sum_{bb'}P(k_{b,\tau})\Theta_{bb'}^2}{\sum_{bb'}\Theta_{bb'}^2}.
+\end{equation}
+So the total noise covariance scales as 
+\begin{equation}
+\sigma_N^2 \sim \frac{\sum_{bb'}\Theta_{bb'}}{\sum_{bb'}\Theta_{bb'}^2}.
+\end{equation}
+With the baseline pairs show in Fig. \ref{fig:sensplot}, we see we get about $10\%$ improvement. 
 
 %\subsection{Notes on Data, Foreground and Noise}
 %Unlike the simulated clean EOR signal, real data are dominated by foreground %and thermal noise, neither of which turns out to exhibit the correlation %pattern seen in Fig.  \ref{fig:numerics}. Foreground exhibits long-range %correlations and would lead to high responses at wide range of time-offsets. %Instrumental noise for different baselines/antenna-pairs, on the other hand, are uncorrelated and thus exhibit responses consistent with zero at all time offsets. 
